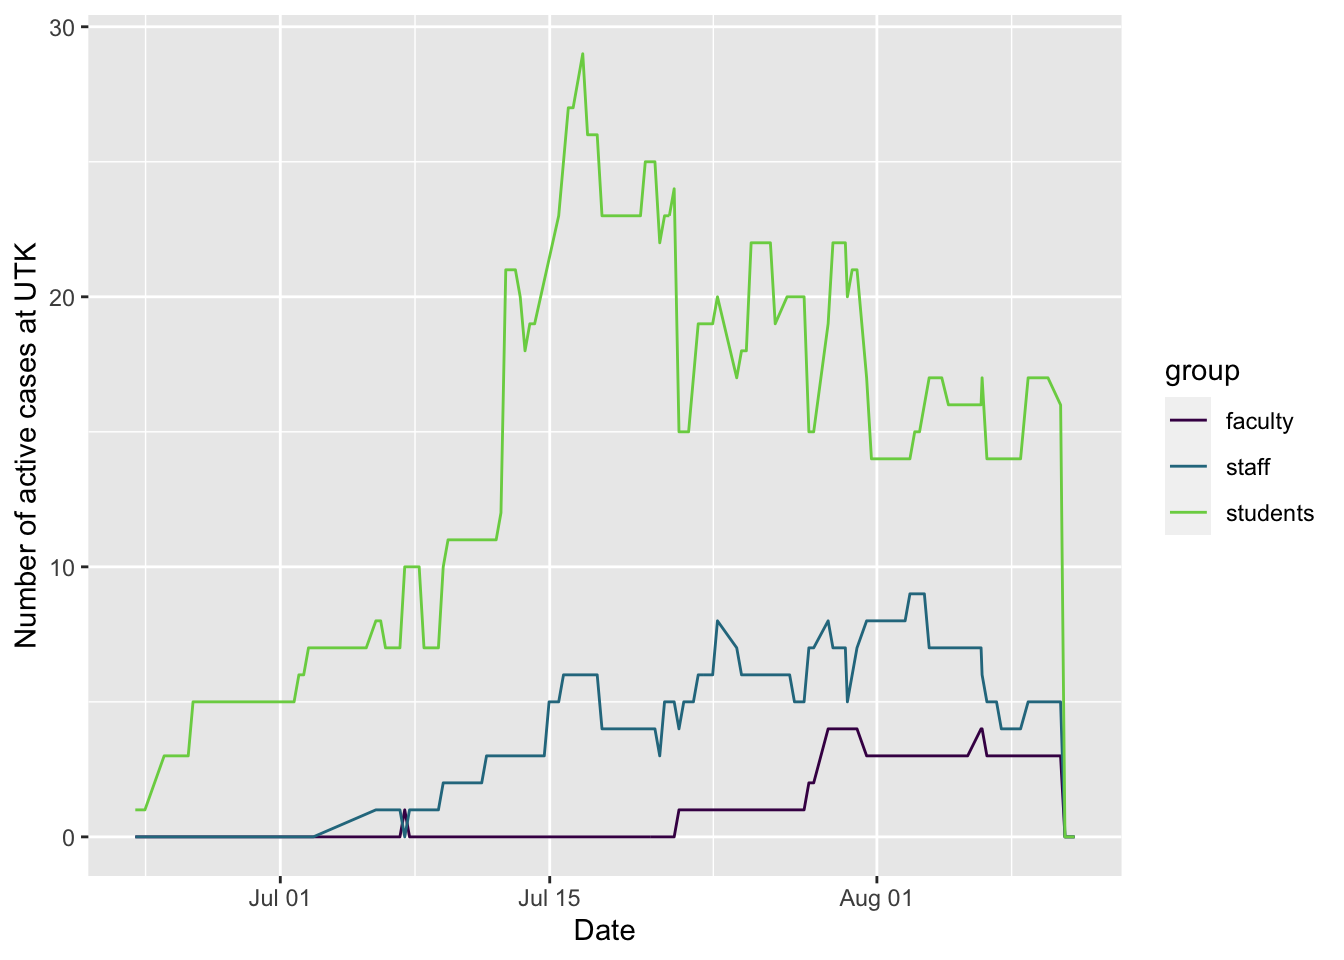
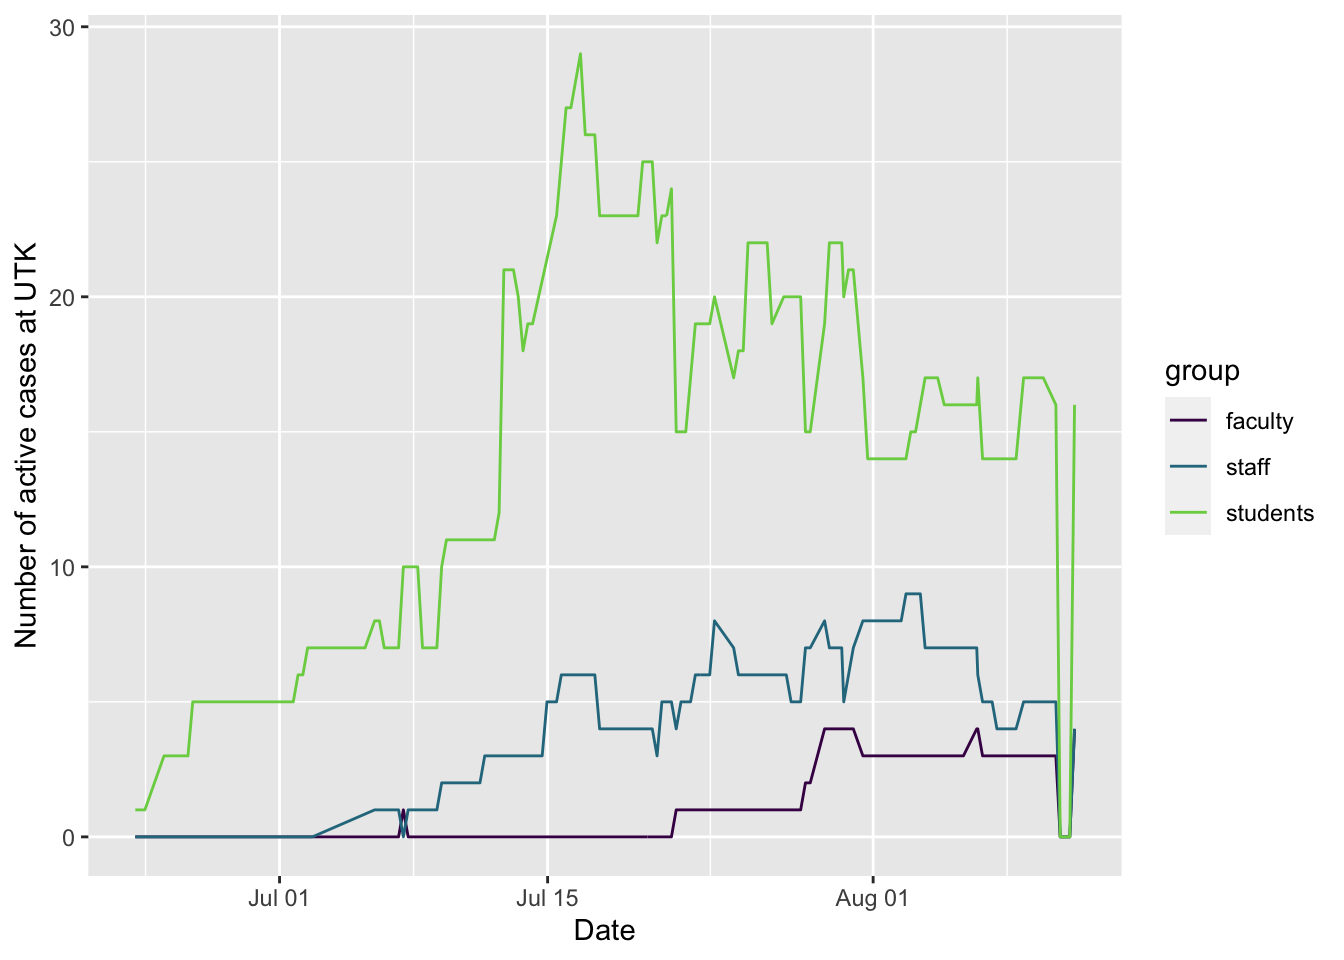
updating site

diff --git a/docs/covid.html b/docs/covid.html
@@ -423,7 +423,7 @@ $(document).ready(function () {
 <li>Info about cases at <a href="#ut">U. of Tennessee, Knoxville</a> (using public information only)</li>
 <li><a href="#webcams">Webcams</a> showing activity at local sites, though not quite at the resolution to point to mask usage or not</li>
 </ul>
-<p>The following plots are created in R using data from <a href="https://covid19datahub.io" class="uri">https://covid19datahub.io</a> (Guidotti, E., Ardia, D., (2020), “COVID-19 Data Hub”, Working paper, doi: 10.13140/RG.2.2.11649.81763), as well as information from Google and the <a href="https://www.tn.gov/health/cedep/ncov/data/downloadable-datasets.html">state of Tennessee dataset page</a> and plotting and analysis using the <code>forecast</code>, <code>ggplot2</code>, <code>reshape2</code>, and <code>dplyr</code> packages. Plots created on 2020-08-11 11:54:15. I use <code>ggplot2</code>’s <code>geom_smooth()</code> function for the smoothed regression plots with its default formula, which uses loess smoothing for this many points. This is not based on a model of disease spread or anything similarly sophisticated, just drawing a smooth curve to summarize noisy points (see <a href="https://www.itl.nist.gov/div898/handbook/pmd/section1/pmd144.htm">here</a> for more details).</p>
+<p>The following plots are created in R using data from <a href="https://covid19datahub.io" class="uri">https://covid19datahub.io</a> (Guidotti, E., Ardia, D., (2020), “COVID-19 Data Hub”, Working paper, doi: 10.13140/RG.2.2.11649.81763), as well as information from Google and the <a href="https://www.tn.gov/health/cedep/ncov/data/downloadable-datasets.html">state of Tennessee dataset page</a> and plotting and analysis using the <code>forecast</code>, <code>ggplot2</code>, <code>reshape2</code>, and <code>dplyr</code> packages. Plots created on 2020-08-11 13:58:03. I use <code>ggplot2</code>’s <code>geom_smooth()</code> function for the smoothed regression plots with its default formula, which uses loess smoothing for this many points. This is not based on a model of disease spread or anything similarly sophisticated, just drawing a smooth curve to summarize noisy points (see <a href="https://www.itl.nist.gov/div898/handbook/pmd/section1/pmd144.htm">here</a> for more details).</p>
 <h2 id="cases">
 Cases
 </h2>
